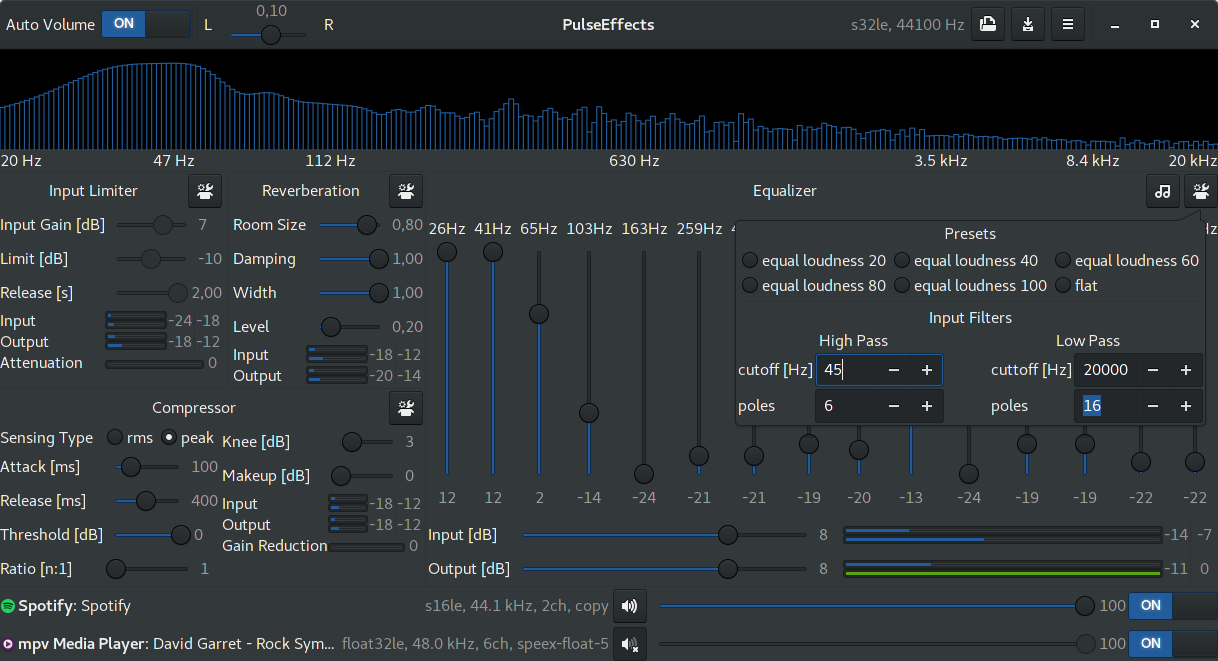
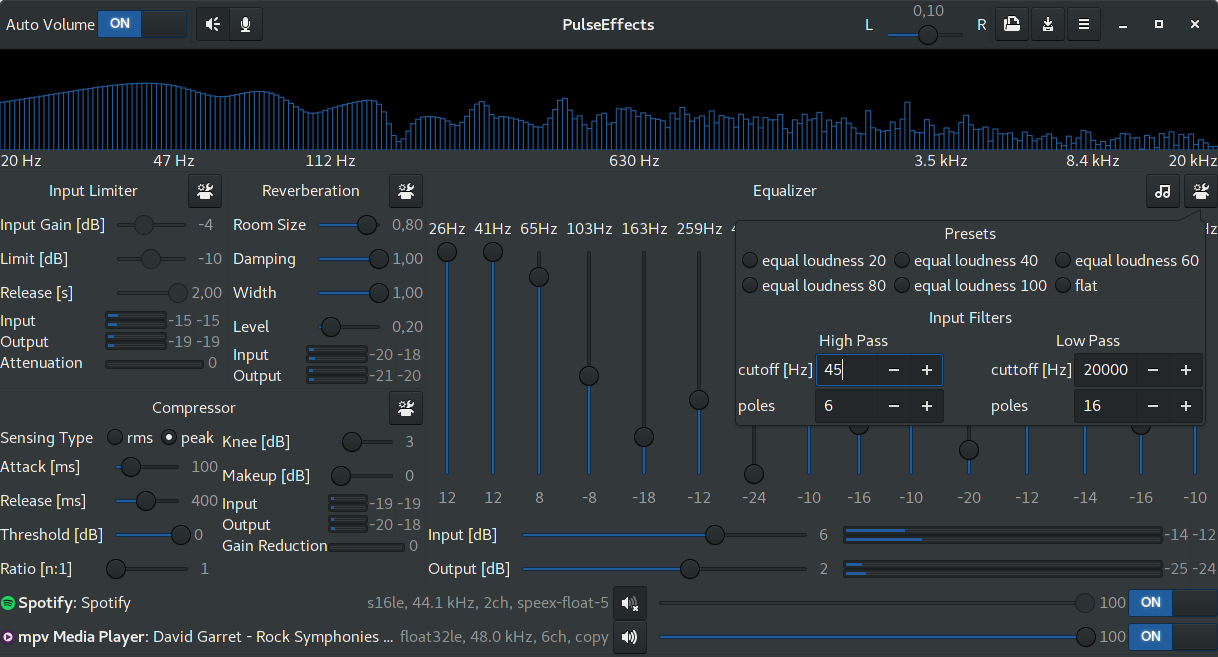
updated readme images

diff --git a/README.md b/README.md
@@ -6,6 +6,7 @@ Pulseaudio applications
 ![](images/pulseeffects_main_window.png)
 ![](images/pulseeffects_eq_menu.png)
 ![](images/pulseeffects_reverb_menu.png)
+![](images/pulseeffects_mic_window.png)
 
 Order of effects applied to applications output:
 
@@ -51,7 +52,7 @@ Required libraries:
 - swh-plugins from Ladspa
 
 Users upgrading from 1.x to 2.x will have to rebuild their presets. Since
-version 2.0.0PulseEffects uses a different format for saving presets. This
+version 2.0.0 PulseEffects uses a different format for saving presets. This
 change was necessary to support presets for microphone processing.
 
 Arch Linux package:
